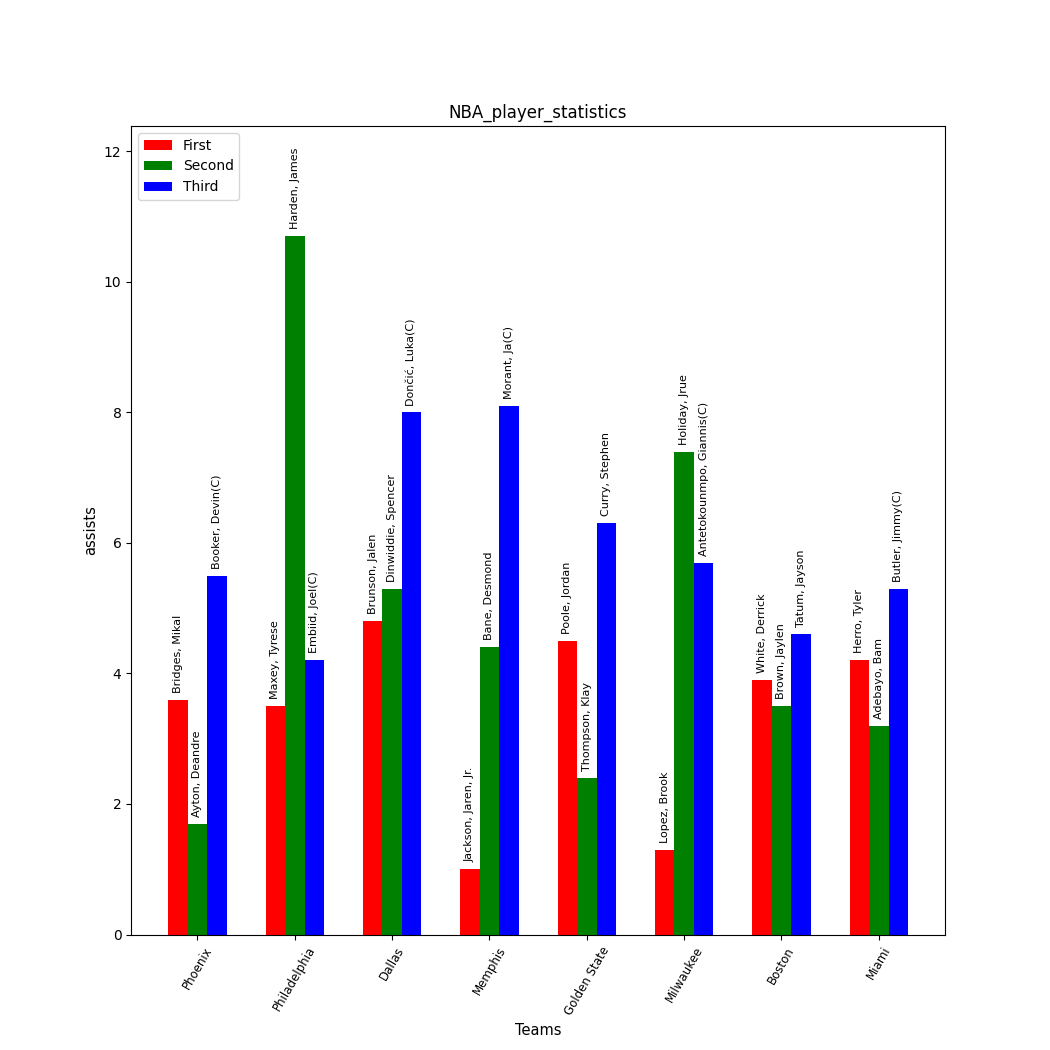
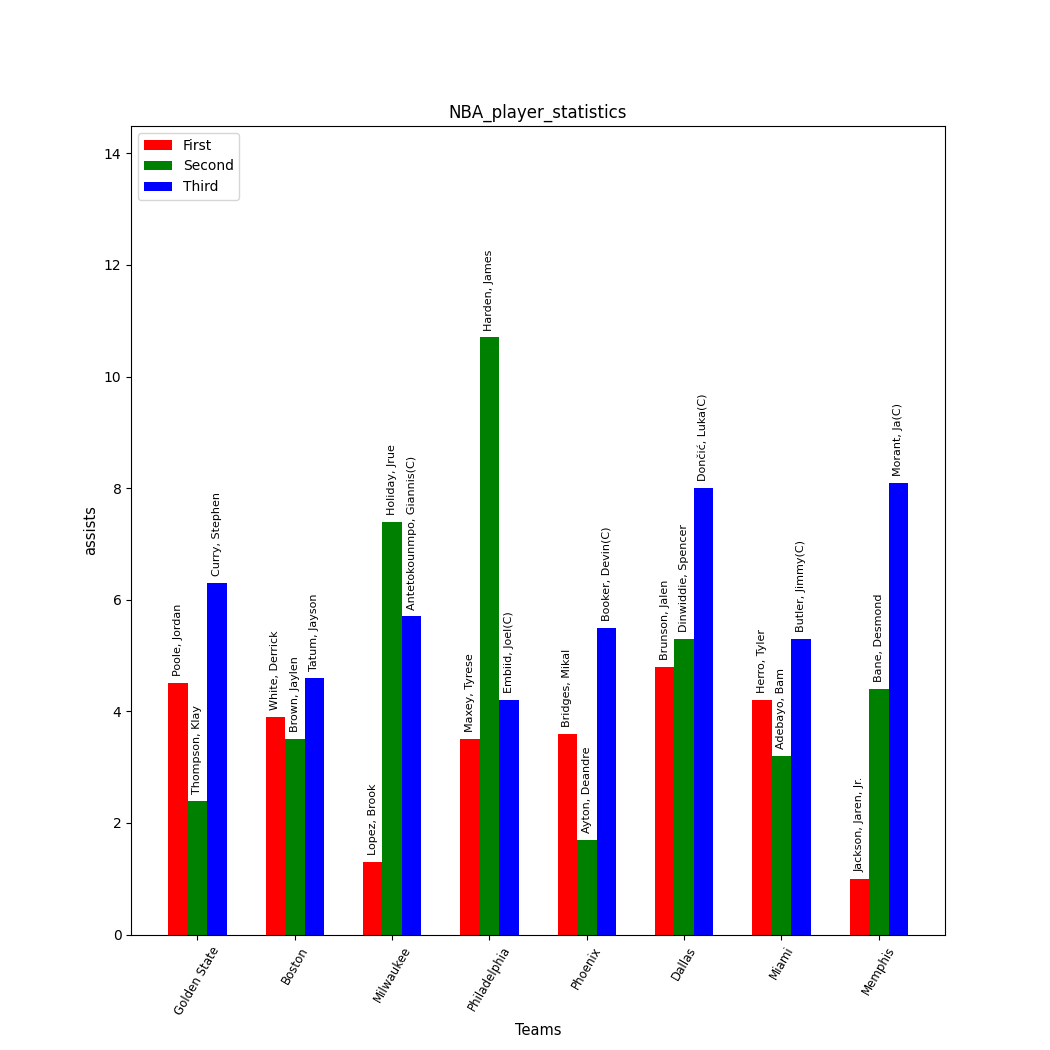
update to the source code, bugs fixed, running smoothly

diff --git a/fetch_player_statistics.py b/fetch_player_statistics.py
@@ -163,7 +163,7 @@ def plot_best(best: Dict[str, List[Dict]], stat: str = "points") -> None:
     plt.ylabel(stat)
     ax.yaxis.label.set_size(10.5)
     ax.xaxis.label.set_size(10.5)
-    plt.plot(35, highest_y_label+int(highest_y_label/2) + 5) # making the plot bigger to make it more clear, think of it like padding
+    plt.plot(35, highest_y_label+int(highest_y_label/2) + 7) # making the plot bigger to make it more clear, think of it like padding
     plt.title(stats_dir)
     plt.savefig(stats_dir+"/"+stat)
     plt.show()    # u can cmt this out if u dont want plot.
